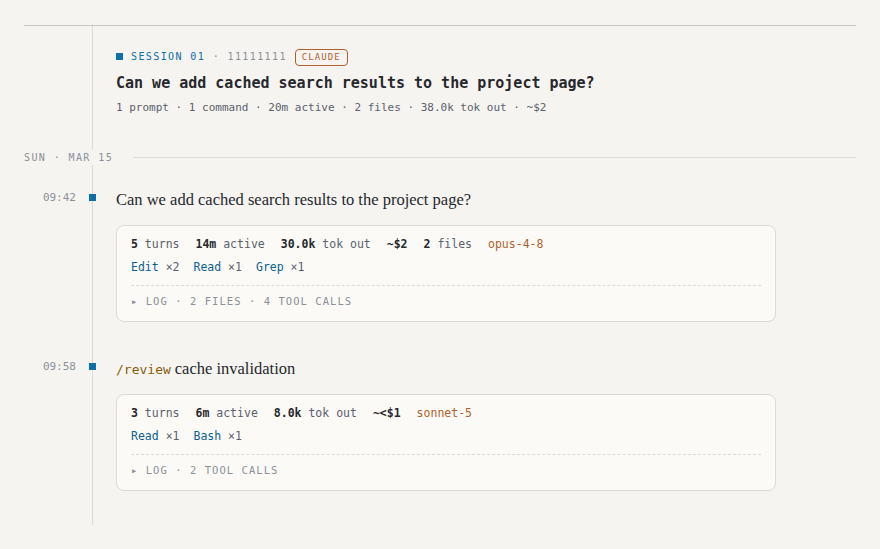
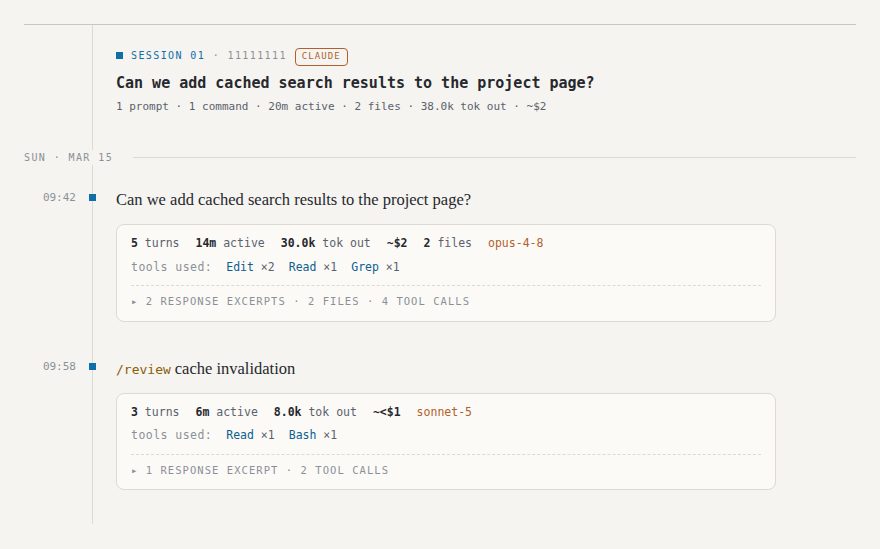
Polish session detail readouts and screenshots
Assisted-by: Codex

diff --git a/scripts/capture-readme-screenshots.js b/scripts/capture-readme-screenshots.js
@@ -83,6 +83,20 @@ const CAPTURE_PADDING = 24;
       'the first synthetic session',
       'timeline-entry.png',
     );
+    const firstSession = await requireFirstElement(
+      '.session-block',
+      'the first synthetic session',
+    );
+    const log = firstSession.locator('details.more').first();
+    if (await log.count() === 0) {
+      throw new Error('The first synthetic session is missing an expandable log');
+    }
+    await log.evaluate(node => { node.open = true; });
+    await capture(
+      '.session-block',
+      'the first synthetic session with its log expanded',
+      'expanded-timeline-entry.png',
+    );
 
     const pricing = await requireFirstElement('details.pricing', 'the cost breakdown');
     await pricing.evaluate(node => { node.open = true; });

diff --git a/generate_site.py b/generate_site.py
@@ -59,6 +59,27 @@ def esc(s):
     return html.escape(s if s is not None else "", quote=True)
 
 
+_MD_CODE = re.compile(r"`([^`\n]+)`")
+_MD_STRONG = re.compile(r"\*\*([^*\n]+?)\*\*")
+_MD_EM = re.compile(r"(?<!\*)\*([^*\n]+?)\*(?!\*)")
+
+
+def inline_markdown(s):
+    """Render a safe, small inline-Markdown subset for response excerpts."""
+    tokens = []
+
+    def stash(tag):
+        tokens.append(tag)
+        return f"\x00{len(tokens) - 1}\x00"
+
+    text = _MD_CODE.sub(
+        lambda match: stash(f'<code>{match.group(1)}</code>'), esc(s))
+    text = _MD_STRONG.sub(r"<strong>\1</strong>", text)
+    text = _MD_EM.sub(r"<em>\1</em>", text)
+    return re.sub(
+        r"\x00(\d+)\x00", lambda match: tokens[int(match.group(1))], text)
+
+
 def _stable_anchor(prefix, *parts):
     """Hash source identity into a short, URL-safe in-page anchor."""
     raw = "\x1f".join("" if part is None else str(part) for part in parts)
@@ -716,6 +737,7 @@ a.clock:hover,a.clock:focus-visible{color:var(--human);outline:none}
 .rostat .mdl.fam-claude{color:var(--claude)}
 .rostat .mdl.fam-gpt{color:var(--codex)}
 .rotools{margin-top:6px;display:flex;flex-wrap:wrap;gap:4px 14px}
+.rotools .tools-label{color:var(--faint);letter-spacing:.04em}
 .rotools .tn{color:var(--machine)}
 details.more{margin-top:9px;border-top:1px dashed var(--line);padding-top:8px}
 details.more>summary{cursor:pointer;font-size:10.5px;letter-spacing:.1em;
@@ -724,10 +746,18 @@ details.more>summary::-webkit-details-marker{display:none}
 details.more>summary::before{content:"\\25B8  "}
 details.more[open]>summary::before{content:"\\25BE  "}
 details.more>summary:focus-visible{outline:2px solid var(--machine);outline-offset:2px}
+.responses{margin-top:15px}
+.detail-section+.detail-section{margin-top:14px;padding-top:12px;border-top:1px solid var(--line)}
+.response-heading,.detail-heading{margin-bottom:10px;font-size:9.5px;letter-spacing:.14em;
+  text-transform:uppercase;color:var(--faint)}
+.response-item+.response-item{margin-top:9px}
+.response-meta{margin-bottom:3px;font-size:10.5px;font-style:italic;
+  letter-spacing:.02em;color:var(--faint)}
+.response-text{font-family:var(--serif);font-size:12.5px;line-height:1.45;color:var(--dim)}
 .gist{margin:10px 0;padding-left:12px;border-left:2px solid var(--bar);
   font-size:12px;color:var(--dim);white-space:pre-wrap}
-.files{margin:10px 0}
-.files .fh{margin-bottom:5px}
+.files{margin-top:10px}
+.files .detail-heading{margin-bottom:5px}
 .files code{display:block;font-size:11.5px;color:var(--ink);padding:1px 0}
 .telog{margin-top:10px;display:grid;grid-template-columns:auto 1fr;gap:2px 14px;
   font-size:11px}
@@ -1376,10 +1406,6 @@ def render(tl, home=None, refreshed_at=None):
                 mcls = f"mdl fam-{mfam}" if mfam else "mdl"
                 stat_bits.append(f'<span class="{mcls}">{esc(clean_model(dom))}</span>')
             responses = a.get("responses") or []
-            if len(responses) > 1:
-                stat_bits.append(
-                    f'<span><b>{len(responses)}</b> '
-                    f'response{_s(len(responses))}</span>')
             subs = a.get("subagents") or []
             if subs:
                 sub_by_model = {}
@@ -1393,13 +1419,17 @@ def render(tl, home=None, refreshed_at=None):
                 stat_bits.append(f'<span class="sub">{bit}</span>')
 
             tools = sorted(a["tools"].items(), key=lambda kv: -kv[1])
-            tool_bits = [f'<span><span class="tn">{esc(k)}</span> &times;{v}</span>'
-                         for k, v in tools[:5]]
-            if len(tools) > 5:
-                tool_bits.append(f'<span>+{len(tools) - 5} more</span>')
+            tool_bits = []
+            if tools:
+                tool_bits.append('<span class="tools-label">tools used:</span>')
+                tool_bits.extend(
+                    f'<span><span class="tn">{esc(k)}</span> &times;{v}</span>'
+                    for k, v in tools[:5])
+                if len(tools) > 5:
+                    tool_bits.append(f'<span>+{len(tools) - 5} more</span>')
 
             detail_bits = []
-            if len(responses) > 1:
+            if responses:
                 response_rows = []
                 for num, response in enumerate(responses, 1):
                     if isinstance(response, dict):
@@ -1412,18 +1442,20 @@ def render(tl, home=None, refreshed_at=None):
                     if response_ts:
                         response_label += f" · {fmt_clock(response_ts)}"
                     response_rows.append(
-                        f'<div class="response-item"><div class="response-meta lbl">'
+                        f'<div class="response-item"><div class="response-meta">'
                         f'{esc(response_label)}</div><div class="response-text">'
-                        f'{esc(response_text)}</div></div>')
+                        f'{inline_markdown(response_text)}</div></div>')
+                response_heading = f'response excerpt{_s(len(responses))}'
                 detail_bits.append(
-                    '<div class="responses"><div class="fh lbl">assistant response '
-                    f'excerpts</div>{"".join(response_rows)}</div>')
+                    f'<div class="detail-section responses"><div class="response-heading">'
+                    f'{response_heading}</div>{"".join(response_rows)}</div>')
             elif a.get("gist"):
                 detail_bits.append(f'<div class="gist">{esc(a["gist"])}</div>')
             if a["files"]:
                 rows = "".join(f'<code>{esc(short_path(f, tl))}</code>' for f in a["files"])
                 detail_bits.append(
-                    f'<div class="files"><div class="fh lbl">files changed</div>{rows}</div>')
+                    f'<div class="detail-section files"><div class="detail-heading">'
+                    f'files changed</div>{rows}</div>')
             if a["tool_events"]:
                 # collapse consecutive identical calls into one ×n row
                 runs = [(n, l, sum(1 for _ in g)) for (n, l), g in
@@ -1433,18 +1465,23 @@ def render(tl, home=None, refreshed_at=None):
                     f'<span class="tn">{esc(n)}{" &times;" + str(c) if c > 1 else ""}</span>'
                     f'<span class="tl">{esc(l)}</span>'
                     for n, l, c in runs)
-                detail_bits.append(f'<div class="telog">{evs}</div>')
+                detail_bits.append(
+                    f'<div class="detail-section tools"><div class="detail-heading">'
+                    f'tools</div><div class="telog">{evs}</div></div>')
             detail = ""
             if detail_bits:
-                sumbits = ["log"]
-                if len(responses) > 1:
-                    sumbits.insert(0, f'{len(responses)} responses')
+                sumbits = []
+                if responses:
+                    sumbits.append(
+                        f'{len(responses)} response excerpt{_s(len(responses))}')
                 if a["files"]:
                     sumbits.append(
                         f'{len(a["files"])} file{_s(len(a["files"]))}')
                 calls = sum(a["tools"].values())
                 if calls:
                     sumbits.append(f'{calls} tool calls')
+                if not sumbits:
+                    sumbits.append("details")
                 detail = (f'<details class="more"><summary>{esc(" · ".join(sumbits))}</summary>'
                           f'{"".join(detail_bits)}</details>')
 

diff --git a/tests/test_codex_parse.py b/tests/test_codex_parse.py
@@ -125,6 +125,28 @@ class CodexTokenParsingTests(unittest.TestCase):
         self.assertNotIn("parseInt(s.id.slice(1),10)", page)
         self.assertNotIn("parseInt(e.id.slice(1),10)", page)
 
+    def test_single_response_uses_excerpt_layout_and_inline_markdown(self):
+        records = [
+            _record("2026-07-20T00:00:00.000Z", "session_meta", {
+                "id": "root", "cwd": "/repo",
+                "timestamp": "2026-07-20T00:00:00.000Z"}),
+            _record("2026-07-20T00:00:01.000Z", "event_msg", {
+                "type": "user_message", "message": "review it"}),
+            _record("2026-07-20T00:00:02.000Z", "response_item", {
+                "type": "message", "role": "assistant",
+                "content": [{"text": "Use **bold** and `inline code`."}]}),
+        ]
+
+        page = render(self.timeline(records))
+
+        self.assertIn(
+            'class="response-heading">response excerpt', page)
+        self.assertIn('class="response-meta">response 1', page)
+        self.assertIn('<strong>bold</strong>', page)
+        self.assertIn('<code>inline code</code>', page)
+        self.assertNotIn('class="gist"', page)
+        self.assertIn('<summary>1 response excerpt</summary>', page)
+
     def test_cumulative_usage_deduplicates_snapshots_and_splits_cached_input(self):
         records = [
             _record("2026-07-20T00:00:00.000Z", "session_meta", {

diff --git a/tests/test_transcript_fixtures.py b/tests/test_transcript_fixtures.py
@@ -162,7 +162,7 @@ class TranscriptFixtureTests(unittest.TestCase):
             ],
         )
         page = render(timeline)
-        self.assertIn("assistant response excerpts", page)
+        self.assertIn("response excerpts", page)
         self.assertIn("The bounded cache now invalidates after writes", page)
 
     def test_codex_fixture_statistics(self):
@@ -195,7 +195,13 @@ class TranscriptFixtureTests(unittest.TestCase):
             ],
         )
         page = render(timeline)
-        self.assertIn("3 responses", page)
+        self.assertIn("3 response excerpts", page)
+        self.assertIn(
+            '<summary>3 response excerpts · 1 file · 2 tool calls</summary>', page)
+        self.assertIn(
+            'class="response-heading">response excerpts', page)
+        self.assertIn('class="response-meta">response 1', page)
+        self.assertIn('class="tools-label">tools used:</span>', page)
         self.assertIn("The failing case isolates stale entries after a write", page)
         self.assertIn(
             'title="Assistant turns attributed to this model; not sessions"',

diff --git a/README.md b/README.md
@@ -138,6 +138,13 @@ entries.
 
 ![Session content with a prompt, token usage, files, and tool calls](docs/images/timeline-entry.png)
 
+### Expanded session details
+
+The expanded session log separates response excerpts, changed files, and tool
+activity while preserving the chronological tool entries.
+
+![Expanded session details with response excerpts, files, and tools](docs/images/expanded-timeline-entry.png)
+
 ## Advanced tasks
 
 ### Refresh automatically with systemd
